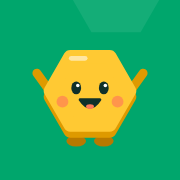
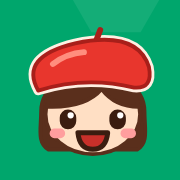
Replace the hexagon mascot with 小玛, a girl in a red beret
Redraw the mascot behind six(mood, size, cls): a chibi study buddy with a
red beret, chestnut bob, yellow dress and a cream scarf edged in green.
Arms now have volume and hands, the beret carries a pale rim and a
highlight so it separates from red and green grounds, and a new think
mood joins cheer, console, celebrate, neutral and sleep. Below 36px, or
with opt.mini, only her head is drawn with a larger face; opt.cap
'phrygian' is a one-off costume used on a passed mock exam.

Fit her into the goal ring, the feedback panel peek and the small status
cards, rename the character in visible text, redraw the app icon and the
static welcome shell, and add checks for the moods, the small rendering
and the old name.

Claude-Session: https://claude.ai/code/session_01JcDvWaBAaSzBX5172VBrJf

diff --git a/civique-zh/site/app.js b/civique-zh/site/app.js
@@ -525,7 +525,7 @@
   }
 
   // ---------------------------------------------------------------- pieces of markup
-  // ---- brand pieces: icons, the hexagon, 小六
+  // ---- brand pieces: icons, the hexagon, 小玛
   // icons: 24 x 24, round 2.4 stroke in currentColor; the few solid ones carry their own fill
   var ICON = {
     home: '<path d="M3.5 11 12 3.5 20.5 11v8.500a1.500 1.500 0 0 1-1.500 1.500h-4.500v-6h-5v6H5a1.500 1.500 0 0 1-1.500-1.500z" fill="currentColor" stroke-width="1.5"/>',
@@ -563,33 +563,49 @@
   // the hexagon: brand shape behind option letters, theme icons and the active tab
   function hex(cls) { return '<svg class="' + (cls || 'hx') + '" viewBox="0 0 40 40" aria-hidden="true"><path d="M35 20 27.5 33h-15L5 20l7.5-13h15z" fill="currentColor" stroke="currentColor" stroke-width="7" stroke-linejoin="round"/></svg>'; }
   function hexBadge(inner, cls) { return '<span class="hexic' + (cls ? ' ' + cls : '') + '">' + hex() + inner + '</span>'; }
-  // a hexagon progress ring with something in the middle (小六 on the home screen). pct: 0 to 100
+  // a hexagon progress ring with something in the middle (小玛 on the home screen). pct: 0 to 100
   function hexRing(pct, inner, label) {
     var d = 'M70 15.5H98.5L130 70 98.5 124.5H41.5L10 70 41.5 15.500z';
     pct = Math.max(0, Math.min(100, pct));
     return '<div class="hexring ring" role="img" aria-label="' + esc(label) + '"><svg class="r" viewBox="0 0 140 140" aria-hidden="true"><path class="trk" d="' + d + '"/>' +
       (pct > 0 ? '<path class="arc" d="' + d + '" pathLength="100" stroke-dasharray="' + (Math.round(pct * 10) / 10) + ' 100"/>' : '') + '</svg>' + (inner || '') + '</div>';
   }
-  // 小六, the mascot: a yellow hexagon (France is « l'Hexagone »). Moods: cheer, console, celebrate, neutral, sleep.
-  var SIX_BODY = '<ellipse cx="46" cy="109" rx="10" ry="5.5" fill="#B87900"/><ellipse cx="74" cy="109" rx="10" ry="5.5" fill="#B87900"/>' +
-    '<path d="M100 64 80 98.6H40L20 64l20-34.6h40z" fill="#DE9A00" stroke="#DE9A00" stroke-width="14" stroke-linejoin="round"/>' +
-    '<path d="M100 58 80 92.6H40L20 58l20-34.6h40z" fill="#FFC933" stroke="#FFC933" stroke-width="14" stroke-linejoin="round"/>' +
-    '<path d="M41 25h14" stroke="#fff" stroke-width="5" stroke-linecap="round" opacity=".55"/><circle cx="32" cy="69" r="6" fill="#FF7A59" opacity=".65"/><circle cx="88" cy="69" r="6" fill="#FF7A59" opacity=".65"/>';
-  function sixEyes(y, rx, ry) {
-    return '<ellipse cx="46" cy="' + y + '" rx="' + rx + '" ry="' + ry + '" fill="#10302A"/><ellipse cx="74" cy="' + y + '" rx="' + rx + '" ry="' + ry + '" fill="#10302A"/>' +
-      '<circle cx="47.6" cy="' + (y - 2.5) + '" r="1.8" fill="#fff"/><circle cx="75.6" cy="' + (y - 2.5) + '" r="1.8" fill="#fff"/>';
-  }
-  var SIX = {   // [arms, face]
-    cheer: ['M19 58 6 40M101 58l13-18', sixEyes(55, 5, 6.5) + '<path d="M50 67q10 15 20 0z" fill="#10302A" stroke="#10302A" stroke-width="3" stroke-linejoin="round"/><ellipse cx="60" cy="74" rx="4" ry="2.4" fill="#FF7A59"/>'],
-    console: ['M19 60 9 76M101 58l12-19', '<path d="M38 45.5 51 42M82 45.5 69 42" stroke="#10302A" stroke-width="3.2" stroke-linecap="round"/>' + sixEyes(57, 4.6, 5.6) + '<path d="M53 70q7 6 14 0" fill="none" stroke="#10302A" stroke-width="3.6" stroke-linecap="round"/>'],
-    celebrate: ['M20 56 8 32M100 56l12-24', '<path d="M39 58q7-11 14 0M67 58q7-11 14 0" fill="none" stroke="#10302A" stroke-width="4.2" stroke-linecap="round"/><path d="M47 66q13 20 26 0z" fill="#10302A" stroke="#10302A" stroke-width="3" stroke-linejoin="round"/><ellipse cx="60" cy="76" rx="5.5" ry="3" fill="#FF7A59"/>'],
-    neutral: ['M19 62 10 79M101 62l9 17', sixEyes(55, 4.8, 6) + '<path d="M54 70h12" fill="none" stroke="#10302A" stroke-width="3.6" stroke-linecap="round"/>'],
-    sleep: ['M19 64 12 80M101 64l7 16', '<path d="M39 55q7 7 14 0M67 55q7 7 14 0" fill="none" stroke="#10302A" stroke-width="3.6" stroke-linecap="round"/><ellipse cx="60" cy="71" rx="3.6" ry="4.4" fill="#10302A"/><path d="M96 8h10l-10 11h10M108 24h6l-6 7h6" fill="none" stroke="#DE9A00" stroke-width="3" stroke-linecap="round" stroke-linejoin="round"/>']
+  // 小玛, the mascot: a chibi study buddy with a red beret, a chestnut bob, a yellow dress and a pale scarf.
+  // The same head and body in every mood; only the arms, the face and a prop or two change.
+  var MA_INK = '#5A2F1C', MA_SKIN = '#FFDFC4', MA_RED = '#E8362D', MA_SUN = '#FFC933';
+  // every shape lives in one group that defaults to a thin chestnut outline; maP is a stroke with its own width / colour
+  function maP(d, w, stroke, more) { return '<path d="' + d + '" stroke-width="' + w + '"' + (stroke ? ' stroke="' + stroke + '"' : '') + (more || '') + '/>'; }
+  // an arm is a fat outlined stroke with a rounder hand at its end. d: the arm, h: the hand as "Mx yh.01"
+  function maArm(d, h) { return maP(d, 13) + maP(h, 17) + maP(d, 8, MA_SKIN) + maP(h, 12, MA_SKIN); }
+  // the face is drawn inside one dark stroke group: eyes are short fat strokes with a white glint
+  function maEyes(y, dx) { return maP('M45 ' + y + 'v2M75 ' + y + 'v2', 10) + maP('M' + (46.6 + (dx || 0)) + ' ' + (y - 1.5) + 'h.01m30 0h.01', 3.8, '#fff'); }
+  function maMouth(d) { return '<path d="' + d + '" fill="#C8302A"/>'; }
+  function maSun(d, w, fill) { return maP(d, w, MA_SUN, fill ? ' fill="' + MA_SUN + '"' : ''); }
+  var MA = {   // [arms behind the body, face, arms and props in front]
+    cheer: [maArm('M48 97 19 76M72 97l29-21', 'M16 73h.01M104 73h.01'), maEyes(67) + maMouth('M51 76h18q-1 10-9 10t-9-10z'), ''],
+    console: [maArm('M48 97 33 108M72 97l28-9', 'M31 110h.01M104 86h.01'), '<path d="M37 58l11-3M83 58l-11-3"/>' + maEyes(69) + '<path d="M54 80q6 4 12 0"/>', maSun('M109 67q-5-7 0-7 3 0 3 3 0-3 3-3 5 0 0 7l-3 3z', 2, 1)],
+    celebrate: [maArm('M48 97 20 64M72 97l28-33', 'M17 60h.01M103 60h.01'), maP('M38 70q7-10 14 0M68 70q7-10 14 0', 3.8) + maMouth('M49 75h22q-1 13-11 13T49 75z'), maSun('M9 34l3 6 6 1-5 4 2 6-6-4-5 4 2-6-5-4 6-1zM112 32v10M107 37h10', 3, 1)],
+    neutral: [maArm('M48 97 34 108M72 97l14 11', 'M32 110h.01M88 110h.01'), maEyes(67) + '<path d="M53 78q7 6 14 0"/>', ''],
+    think: ['', '<path d="M67 56q7-5 14-1M55 80h8"/>' + maEyes(65, 1.6), maArm('M48 97 34 108M76 101q13 1 7-9', 'M32 110h.01M81 88h.01') + maSun('M101 52h.01M108 41h.01', 6) + maSun('M112 24h.01', 12)],
+    sleep: [maArm('M48 97 35 108M72 97l13 11', 'M33 110h.01M87 110h.01'), '<path d="M38 68q7 6 14 0M68 68q7 6 14 0"/>' + maP('M60 79v1', 6), maSun('M96 36h10l-10 11h10M109 20h6l-6 7h6', 3.4)]
   };
-  function six(mood, size, cls) {
-    var m = SIX[mood] || SIX.neutral;
-    return '<svg class="six' + (cls ? ' ' + cls : '') + '" viewBox="0 0 120 120"' + (size ? ' width="' + size + '" height="' + size + '"' : '') + ' aria-hidden="true" data-mood="' + (SIX[mood] ? mood : 'neutral') + '">' +
-      '<path d="' + m[0] + '" fill="none" stroke="#DE9A00" stroke-width="9" stroke-linecap="round"/>' + SIX_BODY + m[1] + '</svg>';
+  var MA_HAIR = '<path d="M25 62C25 28 95 28 95 62c0 12 3 21-5 26H30c-8-5-5-14-5-26z" fill="' + MA_INK + '"/>',
+    MA_BODY = maP('M53 113v4M67 113v4', 7) + '<path d="M49 90l-11 22q22 6 44 0L71 90z" fill="' + MA_SUN + '"/>',
+    MA_HEAD = '<ellipse cx="60" cy="64" rx="32" ry="27" fill="' + MA_SKIN + '"/><path d="M29 59q4-19 31-19t31 19q-16 0-25-12-11 13-37 12z" fill="' + MA_INK + '"/>' + maP('M34 77h4M82 77h4', 6.5, '#FF9E9E'),
+    MA_SCARF = '<path d="M42 89q18 9 36 0l1 7q-19 10-38 0zM64 99l9 9-12 1z" fill="#FFF4DC" stroke="#0B7A52"/>';
+  // the hat sits on a thin pale rim so that red still separates from a red panel
+  function maHat(d, more) { return maP(d, 6.4, '#FFEFE2') + '<g stroke="#A81F1A">' + more + '<path d="' + d + '" fill="' + MA_RED + '"/></g>'; }
+  var MA_HAT = {
+    beret: maHat('M23 48Q10 25 48 16q42-9 50 16 3 15-10 14-33-8-65 2z', maP('M62 15l3-8', 4)) + maP('M33 30q9-7 21-8', 4, '#FF8E7E'),
+    phrygian: maHat('M25 51Q21 22 52 16q12-9 26-6 12 4 8 14-4 6-10 2 12 9 14 25Q58 39 25 51z', '') + maP('M52 16q13 2 24 10', 2.6, '#A81F1A')
+  };
+  // six(mood, size, cls, opt): the full figure, or just her head (bigger eyes and mouth) below 36px or with opt.mini.
+  // opt.cap = 'phrygian' swaps the beret for a red cap, a one-off costume for a passed mock exam.
+  function six(mood, size, cls, opt) {
+    var m = MA[mood] ? mood : 'neutral', mini = opt && opt.mini || size > 0 && size < 36, hat = MA_HAT[opt && opt.cap] || MA_HAT.beret;
+    return '<svg class="six' + (mini ? ' mini' : '') + (cls ? ' ' + cls : '') + '" viewBox="' + (mini ? '9 0 98 98' : '0 0 120 120') + '"' + (size ? ' width="' + size + '" height="' + size + '"' : '') + ' aria-hidden="true" data-mood="' + m + '">' +
+      '<g fill="none" stroke="' + MA_INK + '" stroke-width="2.6" stroke-linecap="round" stroke-linejoin="round">' + (mini ? MA_HAIR + MA_HEAD + hat : MA[m][0] + MA_HAIR + MA_BODY + MA_HEAD + MA_SCARF + hat) +
+      '<g stroke="#3B1D10" stroke-width="3"' + (mini ? ' transform="matrix(1.12 0 0 1.12 -7.2 -8.6)"' : '') + '>' + MA[m][1] + '</g>' + (mini ? '' : MA[m][2]) + '</g></svg>';
   }
   function heroDeco() { return hex('deco d1') + hex('deco d2'); }
   var CONFETTI = [['12%', '14%', 18, '#FFC933'], ['24%', '60%', 12, '#fff'], ['8%', '70%', 14, '#FF9FC8'], ['80%', '10%', 14, '#fff'], ['72%', '58%', 18, '#9FD2FF'], ['88%', '72%', 13, '#FFC933']];
@@ -620,7 +636,7 @@
   }
   function payBlock(lead) {
     var d = offerData();
-    return '<section class="card pay"><div class="pay-head">' + six('cheer') + '<h2>' + esc(lead || '解锁全部题目') + '</h2></div>' +
+    return '<section class="card pay"><div class="pay-head">' + six('cheer', 0, '', { mini: true }) + '<h2>' + esc(lead || '解锁全部题目') + '</h2></div>' +
       '<ul class="pay-facts">' +
       '<li><b>' + d.total + '</b><span>' + '道题带讲解' + '</span></li>' +
       (d.cards ? '<li><b>' + d.cards + '</b><span>张考点速记</span></li>' : '') +
@@ -889,7 +905,7 @@
     var proof = [[meta.total, '道题'], [meta.cards, '张速记卡'], [DB.recall.length, '场机经'], [meta.free, '题免费', 'free']]
       .filter(function (p) { return p[0] > 0; });
     return '<main class="wrap wl">' +
-      '<header class="hero wl-hero">' + heroDeco() + six('cheer', 0, 'bob') + '<div class="txt"><p class="say wl-hi"><span>你好，我是小六</span></p>' +
+      '<header class="hero wl-hero">' + heroDeco() + six('cheer', 0, 'bob') + '<div class="txt"><p class="say wl-hi"><span>你好，我是小玛</span></p>' +
       '<h1>法国公民考试，<br>用中文<em>看懂每一题</em></h1>' +
       '<p class="wl-lead"><b class="wl-un">非官方</b>法语原题 + 中文讲解</p></div></header>' +
       '<section class="wl-proof-wrap"><ul class="wl-proof" style="grid-template-columns:repeat(' + proof.length + ',minmax(0,1fr))">' + proof.map(function (p) {
@@ -914,7 +930,7 @@
     var out = '<main class="wrap">' + pagehead('<span class="h-opt">今天</span>' + (began ? '继续闯关' : '开始闯关'), levelChip() + countChip(), 'h-head');
     if (ui.netFail) out += '<p class="note warn">已购买的题库这次没有加载出来，目前只显示免费题。请检查网络后刷新页面。</p>';
     if (ui.revoked) out += '<p class="note warn">这台设备保存的解锁码已失效，请重新输入解锁码或联系卖家。</p>';
-    // today's goal, with 小六 inside the ring
+    // today's goal, with 小玛 inside the ring
     var say = !p.goal ? (unlocked() ? '全部掌握了，去模考吧' : '免费题都掌握了') : (hit ? '今天达标了！' : (p.done ? '再做 <b>' + (p.goal - p.done) + '</b> 题就达标！' : '今天做 <b>' + p.goal + '</b> 题'));
     out += '<section class="hero home">' + heroDeco() + '<div class="hero-top">' +
       hexRing(p.goal ? p.done / p.goal * 100 : 100, six(hit ? 'celebrate' : 'cheer', 0, 'bob'), '今日目标：已完成 ' + p.done + (p.goal ? ' / ' + p.goal : '') + ' 题') +
@@ -1021,7 +1037,7 @@
   function vMe() {
     var out = '<main class="wrap">' + pagehead('我的'), t = S.target ? totals() : null, left = S.target ? daysLeft() : null, d = S.examDate ? dayAt(S.examDate) : null;
     if (unlocked()) {
-      out += '<a class="card me-card done lrow" href="#unlock">' + six('celebrate') + '<span class="grow"><span class="t1">已解锁全部题目</span><span class="t2">查看解锁码</span></span><span class="go">' + icon('go') + '</span></a>';
+      out += '<a class="card me-card done lrow" href="#unlock">' + six('celebrate', 0, '', { mini: true }) + '<span class="grow"><span class="t1">已解锁全部题目</span><span class="t2">查看解锁码</span></span><span class="go">' + icon('go') + '</span></a>';
     } else out += payBlock(t ? '免费试用中 · 开放 ' + t.have + ' / ' + t.total + ' 题' : '免费试用中');
     out += '<section class="stack"><h2>考试类型</h2><div class="seg n' + levelIds().length + '" role="group" aria-label="准备申请的类型">' + levelIds().map(function (lv) {
       return '<button data-a="target" data-v="' + lv + '" aria-pressed="' + (S.target === lv) + '"><b>' + LEVELS[lv].short + '</b><span lang="fr">' + LEVELS[lv].frs + '</span></button>';
@@ -1109,8 +1125,8 @@
     if (!e) return vExam();
     var pass = e.score >= e.passAt, wrong = e.items.filter(function (it) { return it[1] !== 0; }).length, secs = e.secs || 0;
     var only = !!ui.resOnly && wrong > 0 && wrong < e.items.length;
-    // the moment: 小六 celebrates or consoles, the score, the pass mark
-    var out = '<main class="wrap">' + topbar('成绩', 'exam') + '<section class="hero res-hero ' + (pass ? 'pass' : 'plain fail') + '">' + (pass ? heroDeco() + confetti() : '') + six(pass ? 'celebrate' : 'console', 0, 'bob') +
+    // the moment: 小玛 celebrates (in a red cap, just this once) or consoles, the score, the pass mark
+    var out = '<main class="wrap">' + topbar('成绩', 'exam') + '<section class="hero res-hero ' + (pass ? 'pass' : 'plain fail') + '">' + (pass ? heroDeco() + confetti() : '') + six(pass ? 'celebrate' : 'console', 0, 'bob', pass ? { cap: 'phrygian' } : null) +
       '<p class="verdict-line ' + (pass ? 'pass' : 'fail') + '">' + (pass ? '通过！' : '还没过，差 <b>' + (e.passAt - e.score) + '</b> 题') + '</p>' +
       '<div class="big" aria-label="答对 ' + e.score + ' / ' + e.n + ' 题">' + e.score + '<small> / ' + e.n + '</small></div>' +
       '<div class="scale' + (pass ? ' pass' : '') + '"><div class="track"><i style="width:' + (e.score / e.n * 100) + '%"></i></div>' +
@@ -1630,7 +1646,7 @@
       }).join('') + '</div>';
     }
     if (!f.list.length) {
-      return '<div class="note fd-none">' + six('sleep') + '<p>' + (f.dep ? esc(f.dep + (DEPTS[f.dep] ? ' ' + DEPTS[f.dep] : '')) + ' 省' : '“' + esc(ui.cq) + '”') + '在这份名单里没有考场。试试邻近的省号，或点“用我的位置”；另一家机构的考场见下面的说明。</p></div>';
+      return '<div class="note fd-none">' + six('sleep', 0, '', { mini: true }) + '<p>' + (f.dep ? esc(f.dep + (DEPTS[f.dep] ? ' ' + DEPTS[f.dep] : '')) + ' 省' : '“' + esc(ui.cq) + '”') + '在这份名单里没有考场。试试邻近的省号，或点“用我的位置”；另一家机构的考场见下面的说明。</p></div>';
     }
     var max = ui.cmore ? f.list.length : 8, shown = f.list.slice(0, max);
     var head = (f.q ? '找到 <b class="num">' + f.list.length + '</b> 个考场' : '离你最近的考场') + (ui.geo && f.q ? '，按距离排列' : '');

diff --git a/civique-zh/site/app.css b/civique-zh/site/app.css
@@ -1,5 +1,5 @@
 /* 公民考试中文题库 — design system “闯关”.
-   Jade green is the brand, sunny yellow is THE primary action (and 小六, the hexagon mascot), red means wrong or
+   Jade green is the brand, sunny yellow is THE primary action (and the dress of 小玛, the mascot), red means wrong or
    danger and nothing else. Big radii, chunky controls with a solid darker bottom edge that goes down when pressed,
    thick progress bars, solid colour tiles with white text. The hexagon is the motif: goal ring, option letters,
    theme icons, active tab, bullets. Reuse what is listed here before inventing anything.
@@ -28,7 +28,7 @@
      .stat                   stat tile: .lab, .num (b + span), .bar, .cap
      .bar                    progress bar (i = fill). .ok green, .warm orange, .on-c on a colour tile; .pass = pass mark
      .hexring                hexagon progress ring (hexRing() in app.js);  .hexic hexagon badge (hexBadge())
-     .six                    小六 (six(mood, size) in app.js); add .bob to make it float
+     .six                    小玛, the mascot (six(mood, size, cls, opt) in app.js; .six.mini is her head alone); add .bob to make it float
      .tag                    small label. .g green, .hot yellow, .warm orange, .red.  .chip tappable pill ([aria-pressed])
      .seg                    segmented switch (buttons with aria-pressed, or links with aria-current)
      .list > .lrow           rows for navigation lists (icon, .grow text with .t1/.t2, trailing)
@@ -47,7 +47,7 @@
      table.cmp               free vs unlocked
      details.disc            disclosure row
      .hero                   green headline card (.plain = white)
-     .say                    speech bubble next to 小六
+     .say                    speech bubble next to 小玛
      print                   only the cram sheet (.sheetpage) is laid out for paper
 */
 :root {
@@ -239,7 +239,7 @@ button.tile:active, a.tile:active { transform: translateY(3px); box-shadow: 0 2p
 .hexring > svg.r { display: block; width: 100%; height: 100%; }
 .hexring .trk { fill: none; stroke: rgba(0, 0, 0, .2); stroke-width: 15; stroke-linejoin: round; }
 .hexring .arc { fill: none; stroke: var(--sun); stroke-width: 15; stroke-linejoin: round; stroke-linecap: round; }
-.hexring > .six { position: absolute; left: 20%; top: 19%; width: 60%; height: 60%; }
+.hexring > .six { position: absolute; left: 19.5%; top: 18%; width: 61%; height: 61%; }
 .hexic { position: relative; flex: none; width: 34px; height: 34px; display: grid; place-items: center; color: var(--soft); }
 .hexic > .hx { position: absolute; inset: 0; width: 100%; height: 100%; }
 .hexic > b { position: relative; font-family: var(--f-disp); font-weight: 700; font-size: 17px; line-height: 1; color: var(--ink2); }
@@ -479,7 +479,7 @@ button.opt:active:not([disabled]) { transform: translateY(2px); box-shadow: 0 1p
   background: var(--ok-panel); box-shadow: inset 0 5px 0 rgba(255, 255, 255, .16);
 }
 .dock.fb.miss .in { background: var(--bad-panel); }
-.dock.fb > .six { position: absolute; right: max(18px, calc(50% - 272px)); bottom: calc(100% - 26px); width: 78px; height: 78px; pointer-events: none; }
+.dock.fb > .six { position: absolute; right: max(18px, calc(50% - 272px)); bottom: calc(100% - 20px); width: 78px; height: 78px; pointer-events: none; }
 .dock.fb .copy { flex: 1 1 auto; min-height: 0; background: none; box-shadow: none; }
 .dock.fb .copy h3 { color: #fff; }
 .dock.fb .copy .pill { box-shadow: none; }
@@ -586,7 +586,7 @@ button.rd:active { transform: translateY(2px); box-shadow: 0 1px 0 var(--line); 
 /* ================================================================ offer */
 .pay { display: flex; flex-direction: column; gap: 12px; }
 .pay-head { display: flex; align-items: center; gap: 10px; }
-.pay-head .six { width: 54px; height: 54px; margin: -6px 0 -6px -4px; }
+.pay-head .six { width: 48px; height: 48px; margin: -4px 0 -4px -2px; }
 .pay-facts { display: grid; grid-template-columns: repeat(3, minmax(0, 1fr)); gap: 8px; }
 .pay-facts li { display: flex; flex-direction: column; align-items: flex-start; min-width: 0; padding: 7px 10px 8px; border-radius: 14px; background: var(--soft); }
 .pay-facts b { font-family: var(--f-disp); font-weight: 700; font-size: 26px; line-height: 1.15; }
@@ -643,7 +643,7 @@ button.rd:active { transform: translateY(2px); box-shadow: 0 1px 0 var(--line); 
 .th-row .hexic { width: 40px; height: 40px; }
 .th-row .btn { flex: none; }
 .me-card { display: flex; align-items: center; gap: 12px; color: var(--ink); text-decoration: none; }
-.me-card .six { width: 64px; height: 64px; margin: -4px 0 -4px -4px; }
+.me-card .six { width: 52px; height: 52px; margin: -2px 0 -2px -2px; }
 .me-card .t1 { font-size: 17px; font-weight: 800; line-height: 1.3; }
 .me-card .t2 { font-size: 13px; color: var(--ink2); font-weight: 600; }
 .me-card.done { background: var(--g-l); border-color: var(--g); box-shadow: 0 3px 0 var(--g); }
@@ -763,7 +763,7 @@ button.rd:active { transform: translateY(2px); box-shadow: 0 1px 0 var(--line); 
   .offer-price > b { font-size: 36px; }
   .u-hero h1 { font-size: 23px; }
   .chip { padding: 4px 10px; font-size: 13px; }
-  .dock.fb > .six { width: 64px; height: 64px; bottom: calc(100% - 22px); }
+  .dock.fb > .six { width: 64px; height: 64px; bottom: calc(100% - 14px); }
   .pay-facts b { font-size: 22px; }
   .wl-hero > .six { width: 68px; height: 68px; }
   .wl-hero h1 { font-size: 21px; }
@@ -1370,7 +1370,7 @@ button.voc:active { transform: translateY(2px); box-shadow: 0 1px 0 var(--c); }
 .fd-q input:focus { border-color: var(--sun); box-shadow: 0 0 0 3px rgba(255, 201, 51, .55); }
 .fd-q input::placeholder { font-size: 15px; }
 .fd-none { display: flex; align-items: center; gap: 10px; }
-.fd-none .six { flex: none; width: 56px; height: 56px; margin: -4px 0 -4px -6px; }
+.fd-none .six { flex: none; width: 46px; height: 46px; margin: -2px 0 -2px -4px; }
 #ccount b { font-size: 18px; color: var(--ink); }
 .reg .centres { gap: 12px; }
 .reg .centre { border-radius: var(--r-l); box-shadow: 0 3px 0 var(--line); padding: 12px 14px 10px; gap: 3px; }
@@ -1386,7 +1386,7 @@ button.voc:active { transform: translateY(2px); box-shadow: 0 1px 0 var(--c); }
 .fd-notes .facts { font-size: 14px; line-height: 1.6; }
 .fd-notes a { color: var(--g-t); font-weight: 700; }
 
-/* --- self-check: a short quiz with 小六 */
+/* --- self-check: a short quiz with 小玛 */
 .chk-hi { display: flex; align-items: center; gap: 12px; }
 .chk-hi .six { flex: none; width: 84px; height: 84px; margin: -6px 0 -8px -6px; }
 .chk-hi .say { font-size: 15px; box-shadow: 0 3px 0 var(--line); }

diff --git a/civique-zh/site/index.html b/civique-zh/site/index.html
@@ -21,7 +21,7 @@
 <body>
 <div id="app">
   <main class="wrap wl">
-    <header class="hero wl-hero"><svg class="deco d1" viewBox="0 0 40 40" aria-hidden="true"><path d="M35 20 27.5 33h-15L5 20l7.5-13h15z" fill="currentColor" stroke="currentColor" stroke-width="7" stroke-linejoin="round"/></svg><svg class="deco d2" viewBox="0 0 40 40" aria-hidden="true"><path d="M35 20 27.5 33h-15L5 20l7.5-13h15z" fill="currentColor" stroke="currentColor" stroke-width="7" stroke-linejoin="round"/></svg><svg class="six" viewBox="0 0 120 120" aria-hidden="true" data-mood="cheer"><path d="M19 58 6 40M101 58l13-18" fill="none" stroke="#DE9A00" stroke-width="9" stroke-linecap="round"/><ellipse cx="46" cy="109" rx="10" ry="5.5" fill="#B87900"/><ellipse cx="74" cy="109" rx="10" ry="5.5" fill="#B87900"/><path d="M100 64 80 98.6H40L20 64l20-34.6h40z" fill="#DE9A00" stroke="#DE9A00" stroke-width="14" stroke-linejoin="round"/><path d="M100 58 80 92.6H40L20 58l20-34.6h40z" fill="#FFC933" stroke="#FFC933" stroke-width="14" stroke-linejoin="round"/><path d="M41 25h14" stroke="#fff" stroke-width="5" stroke-linecap="round" opacity=".55"/><circle cx="32" cy="69" r="6" fill="#FF7A59" opacity=".65"/><circle cx="88" cy="69" r="6" fill="#FF7A59" opacity=".65"/><ellipse cx="46" cy="55" rx="5" ry="6.5" fill="#10302A"/><ellipse cx="74" cy="55" rx="5" ry="6.5" fill="#10302A"/><circle cx="47.6" cy="52.5" r="1.8" fill="#fff"/><circle cx="75.6" cy="52.5" r="1.8" fill="#fff"/><path d="M50 67q10 15 20 0z" fill="#10302A" stroke="#10302A" stroke-width="3" stroke-linejoin="round"/><ellipse cx="60" cy="74" rx="4" ry="2.4" fill="#FF7A59"/></svg><div class="txt"><p class="wl-kicker"><span lang="fr">examen civique</span> · 中文题库 · 非官方</p>
+    <header class="hero wl-hero"><svg class="deco d1" viewBox="0 0 40 40" aria-hidden="true"><path d="M35 20 27.5 33h-15L5 20l7.5-13h15z" fill="currentColor" stroke="currentColor" stroke-width="7" stroke-linejoin="round"/></svg><svg class="deco d2" viewBox="0 0 40 40" aria-hidden="true"><path d="M35 20 27.5 33h-15L5 20l7.5-13h15z" fill="currentColor" stroke="currentColor" stroke-width="7" stroke-linejoin="round"/></svg><svg class="six" viewBox="0 0 120 120" aria-hidden="true" data-mood="cheer"><g fill="none" stroke="#5A2F1C" stroke-width="2.6" stroke-linecap="round" stroke-linejoin="round"><path d="M48 97 19 76M72 97l29-21" stroke-width="13"/><path d="M16 73h.01M104 73h.01" stroke-width="17"/><path d="M48 97 19 76M72 97l29-21" stroke-width="8" stroke="#FFDFC4"/><path d="M16 73h.01M104 73h.01" stroke-width="12" stroke="#FFDFC4"/><path d="M25 62C25 28 95 28 95 62c0 12 3 21-5 26H30c-8-5-5-14-5-26z" fill="#5A2F1C"/><path d="M53 113v4M67 113v4" stroke-width="7"/><path d="M49 90l-11 22q22 6 44 0L71 90z" fill="#FFC933"/><ellipse cx="60" cy="64" rx="32" ry="27" fill="#FFDFC4"/><path d="M29 59q4-19 31-19t31 19q-16 0-25-12-11 13-37 12z" fill="#5A2F1C"/><path d="M34 77h4M82 77h4" stroke-width="6.5" stroke="#FF9E9E"/><path d="M42 89q18 9 36 0l1 7q-19 10-38 0zM64 99l9 9-12 1z" fill="#FFF4DC" stroke="#0B7A52"/><path d="M23 48Q10 25 48 16q42-9 50 16 3 15-10 14-33-8-65 2z" stroke-width="6.4" stroke="#FFEFE2"/><g stroke="#A81F1A"><path d="M62 15l3-8" stroke-width="4"/><path d="M23 48Q10 25 48 16q42-9 50 16 3 15-10 14-33-8-65 2z" fill="#E8362D"/></g><path d="M33 30q9-7 21-8" stroke-width="4" stroke="#FF8E7E"/><g stroke="#3B1D10" stroke-width="3"><path d="M45 67v2M75 67v2" stroke-width="10"/><path d="M46.6 65.5h.01m30 0h.01" stroke-width="3.8" stroke="#fff"/><path d="M51 76h18q-1 10-9 10t-9-10z" fill="#C8302A"/></g></g></svg><div class="txt"><p class="wl-kicker"><span lang="fr">examen civique</span> · 中文题库 · 非官方</p>
       <h1>法国公民考试，<br>用中文<em>看懂每一题</em></h1>
       <p class="wl-lead">法语原题，每题都有中文翻译和讲解。</p></div></header>
     <p class="wl-step">免费开始，不用注册：打开就能先做一道官方知识题，答完马上看中文讲解</p>
